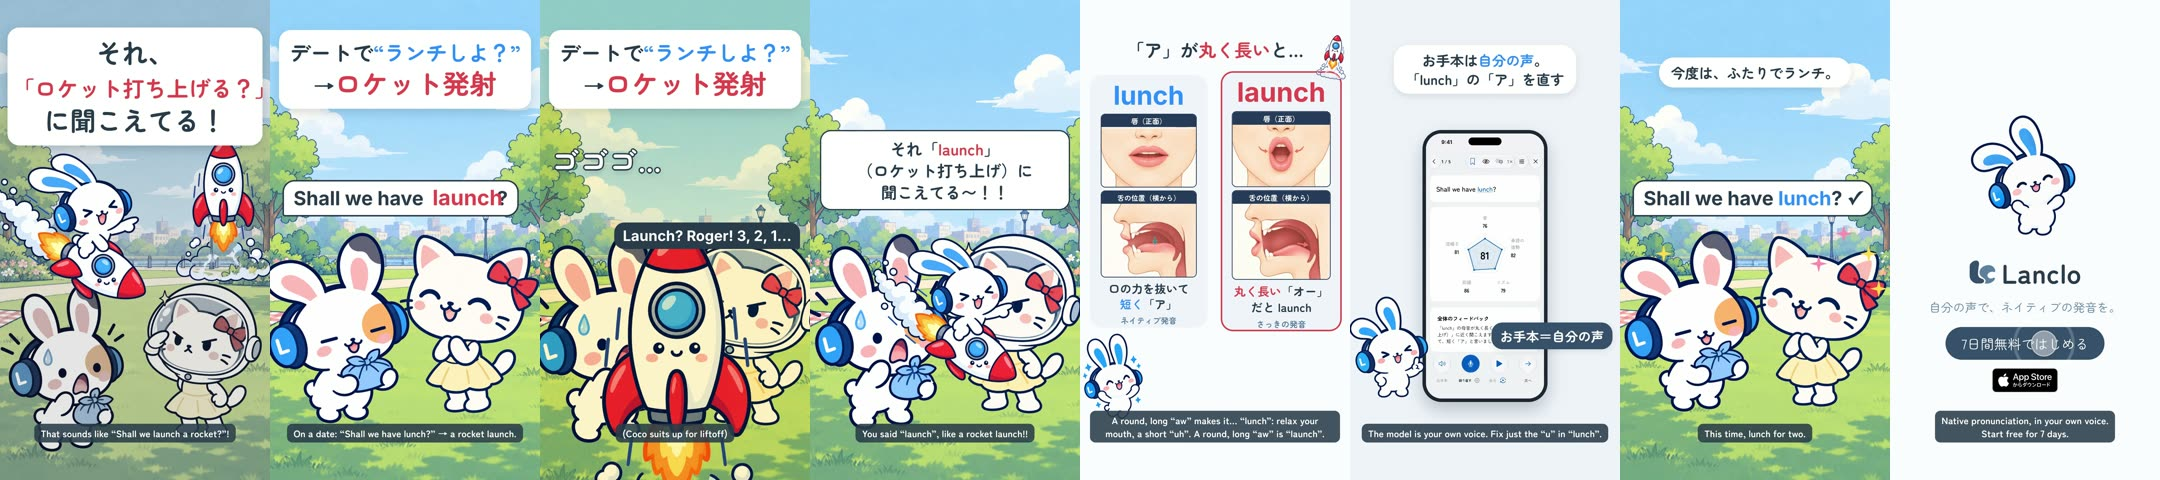
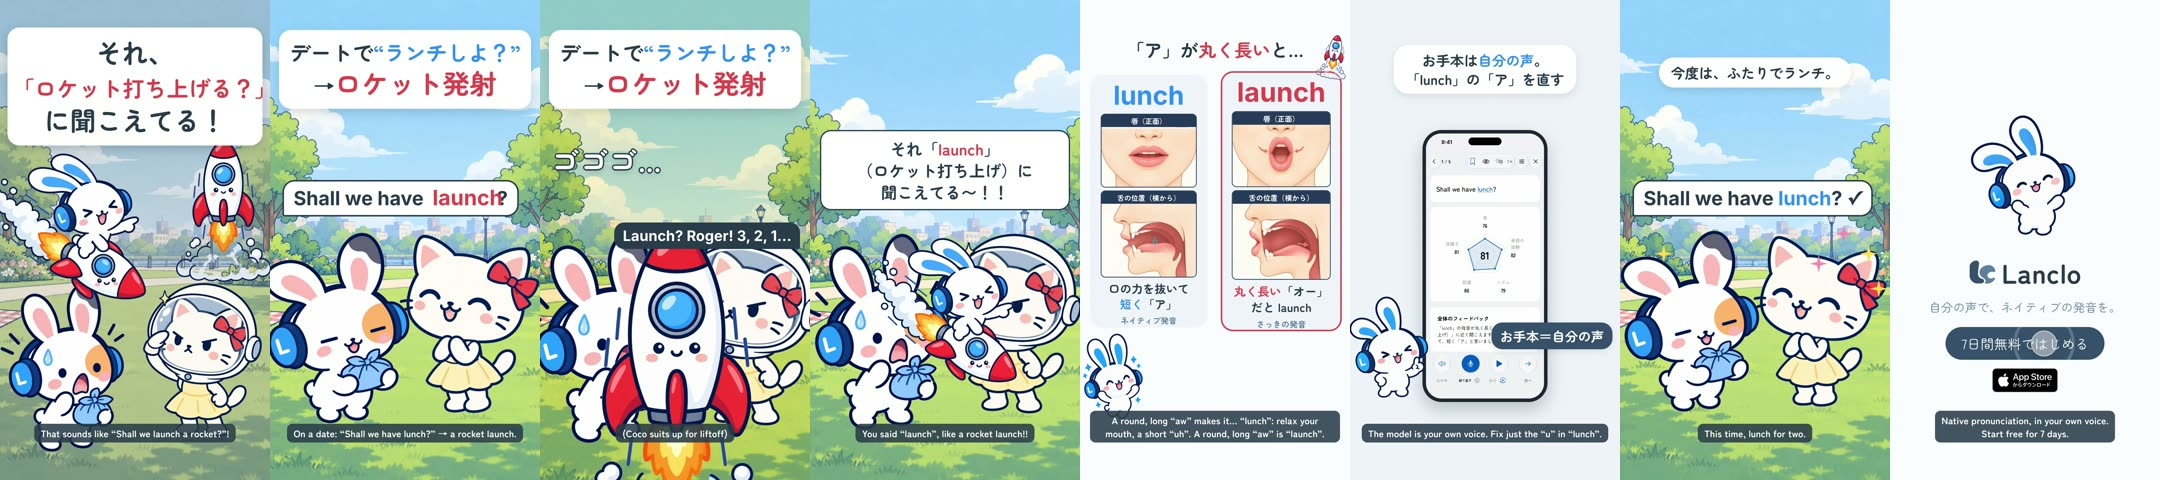
Keep the Friend white in 050: freeze tint on the plate only, no filter on the punchline cast

diff --git a/films/mimi-disaster-lunch/source/hf/index.html b/films/mimi-disaster-lunch/source/hf/index.html
@@ -83,7 +83,7 @@
       /* Punchline first: Mimi's line on frame 1, then a rewind to the start of the scene */
       #punch { position: absolute; inset: 0; background: #fbfcfd; overflow: hidden; }
       #punch .pplate { position: absolute; inset: 0; width: 100%; height: 100%; object-fit: cover; filter: saturate(0.6) brightness(0.92); }
-      #punch .pcast { position: absolute; height: auto; filter: saturate(0.5) brightness(0.9); }
+      #punch .pcast { position: absolute; height: auto; }
       #punch .pt { position: absolute; left: 30px; right: 30px; top: 110px; background: #ffffff; border-radius: 48px; padding: 30px 20px 36px; box-shadow: 0 16px 40px rgba(39, 59, 75, 0.25); text-align: center; font-size: 104px; font-weight: 700; line-height: 1.3; color: #273b4b; }
       #punch .pt b { color: #e5484d; font-size: 88px; white-space: nowrap; }
       #punch .pt b.jp { font-family: inherit; }
@@ -114,6 +114,8 @@
       <!-- The scene: the slip, the freeze, the rocket, Mimi; again at the fix -->
       <div id="scene">
         <img id="plate" src="assets/art/park.webp" alt="" />
+        <!-- the freeze tint sits on the plate only, so the cast keeps its model colours (white Friend) -->
+        <div id="tint" class="clip" data-start="4.25" data-duration="3.2" data-track-index="5"></div>
         <img id="other" class="cast clip" src="assets/art/coco-smile.webp" alt="" data-start="1.5" data-duration="2.75" data-track-index="3" />
         <img id="other-r" class="cast clip" src="assets/art/coco-helmet.webp" alt="" data-start="4.25" data-duration="4.9" data-track-index="3" />
         <img id="other2" class="cast clip" src="assets/art/coco-smile.webp" alt="" data-start="16.5" data-duration="2.4" data-track-index="3" />
@@ -131,7 +133,6 @@
         <img id="p-mimi" src="assets/art/mimi-rocket.webp" alt="" />
         <div id="rew"><span>◀◀ REWIND</span></div>
       </div>
-      <div id="tint" class="clip" data-start="4.25" data-duration="3.2" data-track-index="5"></div>
 
       <div id="hook" class="clip" data-start="1.5" data-duration="5.85" data-track-index="6">デートで<q>“ランチしよ？”</q><br />→<span class="hot">ロケット発射</span></div>
       <div id="say" class="say clip" data-start="1.75" data-duration="2.75" data-track-index="7">Shall we have <span class="bad">launch</span>?</div>

diff --git a/films/mimi-disaster-lunch/PROCESS.md b/films/mimi-disaster-lunch/PROCESS.md
@@ -24,6 +24,7 @@
 4. App: `app-capture/Walkthrough.swift` + `lunch-lesson.patch` (capture-only: the first daily sentence becomes “Shall we have lunch?” and the fixture finding points at “lunch” /ʌ/). The lesson screen, お手本 button, record button, score card and flagged-word row are the real app (identifiers `lesson.model`, `lesson.record`, `feedback.scores` in native-ios on origin/main); the sentence, feedback wording and score are fixture data. Cut with `scripts/app_track.sh`.
 5. Sound: `scripts/mix.py` (kit Mix): punchline boing, tape rewind, record scratch at the freeze (the bed stops dead and comes back with Mimi), a pop for the helmet, a soft low rocket rumble and a whoosh at liftoff, the takes on the card, the native take again when said right. Voice loudest, BGM ~21 dB under, SFX soft.
 6. Checked with `hyperframes check` and snapshots of the key moments; layout fixes after the first look (punchline frame decluttered, the card's rocket gag moved off the panels, Mimi's bubble re-broken).
+7. Commander review (2026-10-22): in the freeze beat the Friend looked cream/yellow, off-model. Cause: the inherited yellow multiply `#tint` (from the template) covered the whole scene, cast included; the punchline frame also desaturated/dimmed the cast (`#punch .pcast` filter). Fix: the tint now sits inside `#scene` right above the plate (background only) and the punchline cast has no filter, so the Friend stays white like the cast sheet in every frame. Previous drafts kept in Drive `old/` as `_v1-cream-friend`.
 
 ## Uncertain / for review
 
